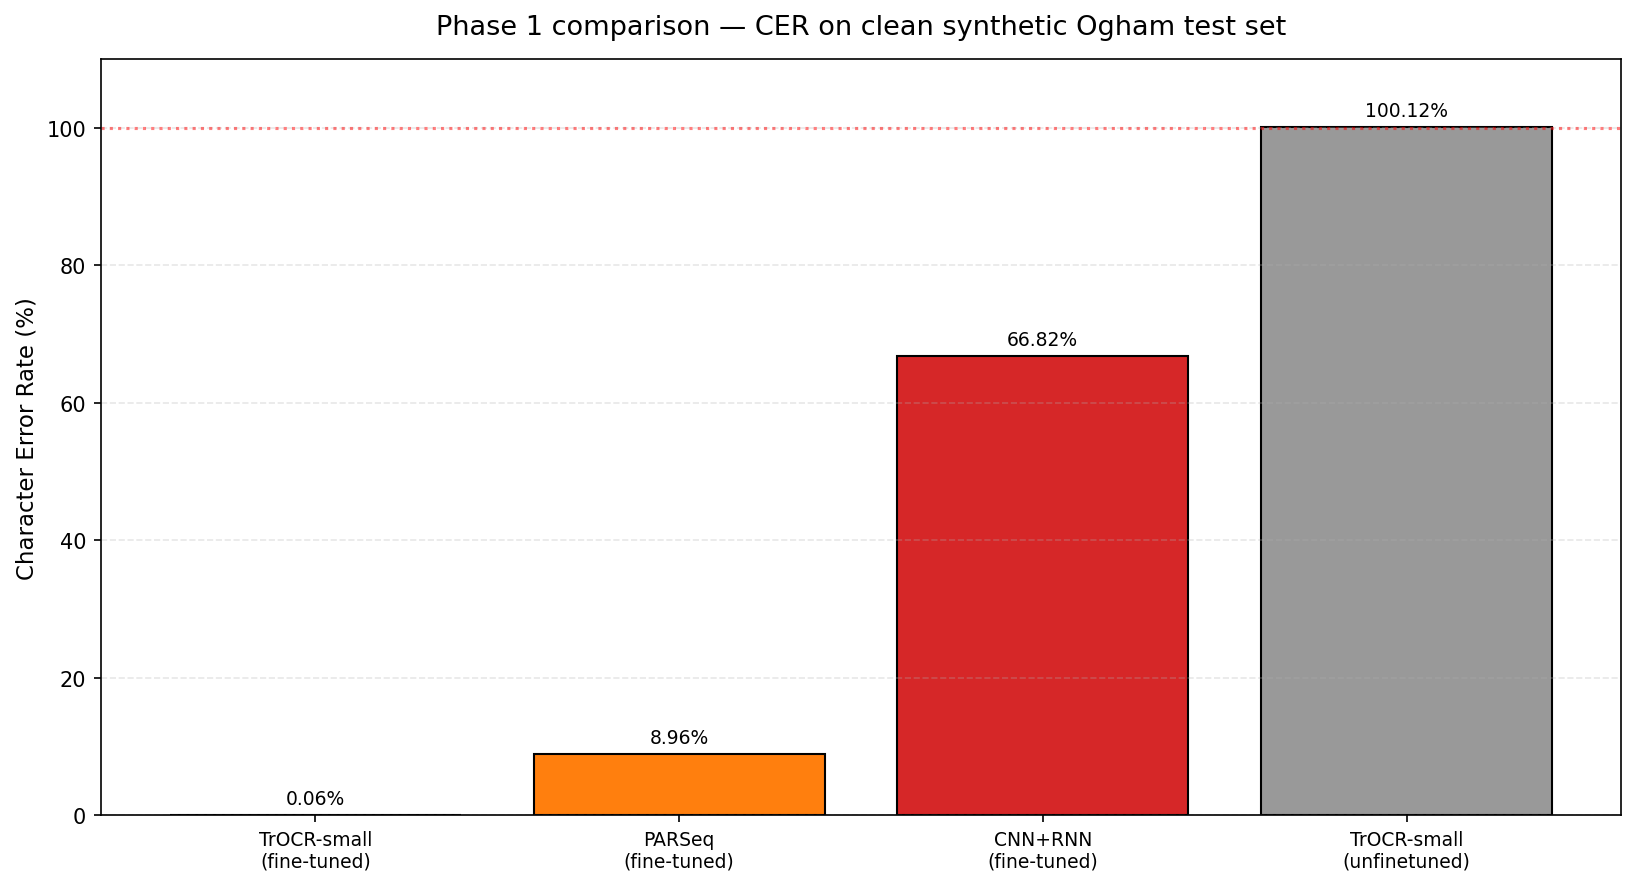
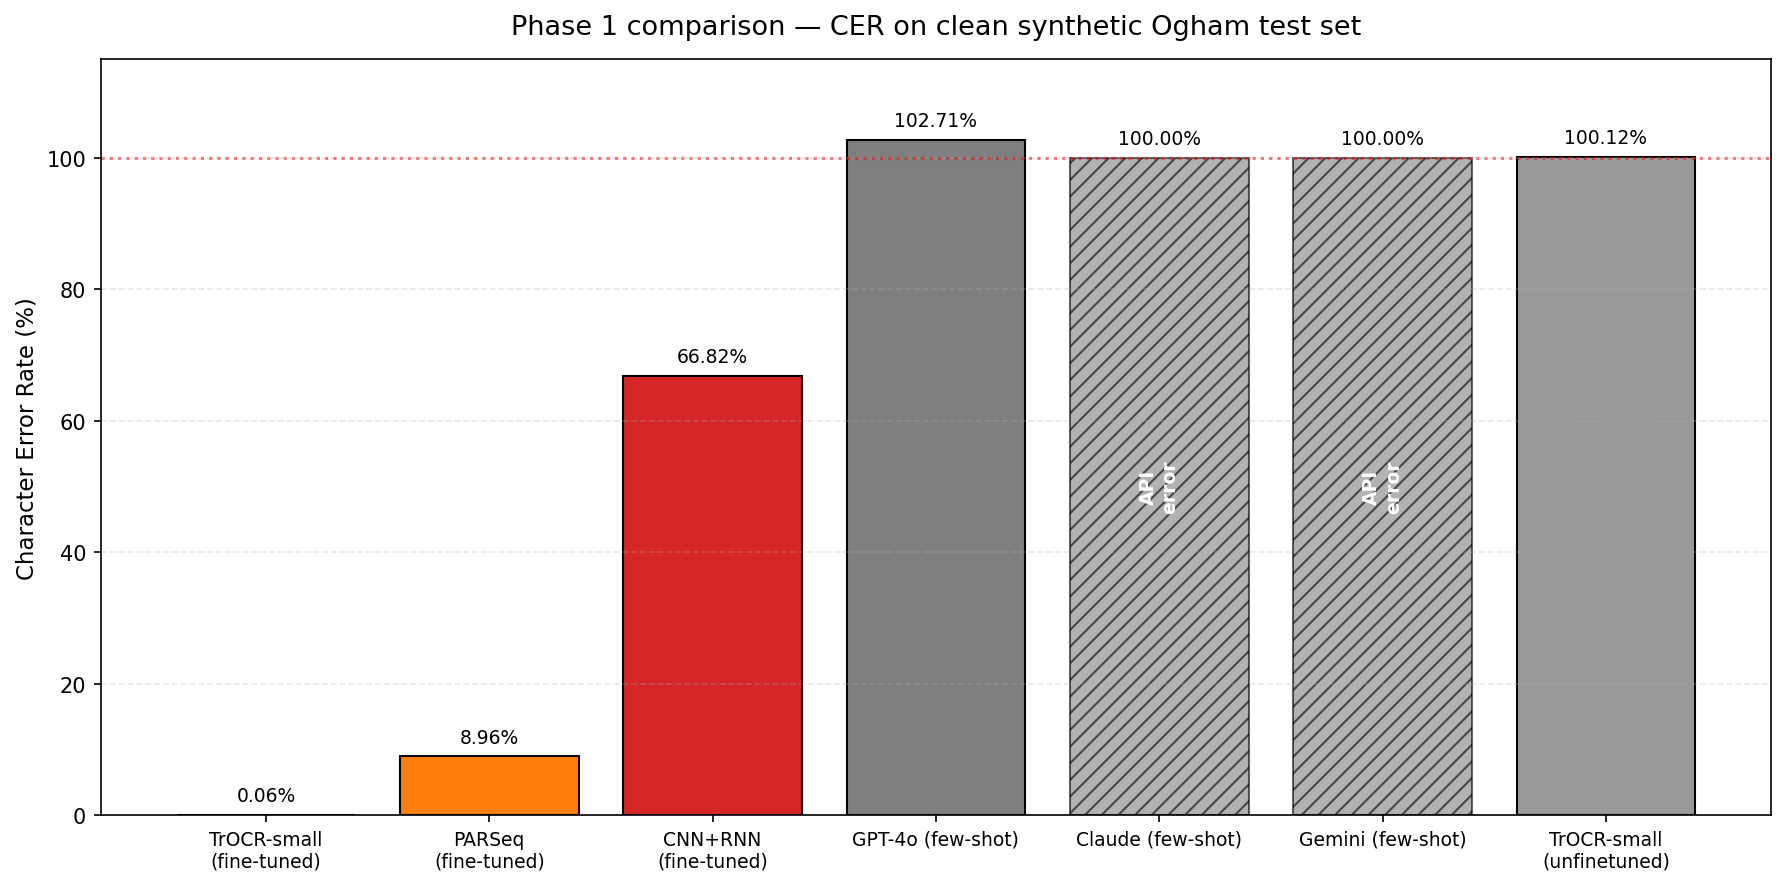
Add extended large-model results and regenerate comparison charts
Phase 1 and Phase 2 comparison bar charts now include:
- TrOCR-small, PARSeq, CNN+RNN (fine-tuned, real results)
- GPT-4o (few-shot, real eval — hallucinates MAQI formulae regardless
  of input, producing 102.71% synth / 141.57% freeform CER)
- Claude (few-shot, API errored — placeholder 100%, needs re-run with
  valid claude-sonnet-4-5 model ID; bars hatched and labelled "API error")
- Gemini (few-shot, API errored — placeholder 100%, needs re-run with
  gemini-2.5-flash endpoint; bars hatched and labelled)
- TrOCR-small untrained (100.12% synth, floor reference)

Chart tweaks:
- API-errored bars rendered with diagonal-stripe hatching and marked
  "API error" in white bold text on the bar
- Y-axis capped at 115 (phase 1) / 160 (phase 2) with bar labels showing
  true values even when exceeded
- 100% CER floor line retained as red dashed reference

Once Claude and Gemini are re-run with valid model IDs, regenerate the
JSON and rerun plot_full_comparison.py to replace the placeholders with
real inference numbers.

diff --git a/scripts/plot_full_comparison.py b/scripts/plot_full_comparison.py
@@ -49,6 +49,9 @@ EXTENDED_LM_RESULTS = {
                             "freeform_cer": None, "freeform_exact": None},
 }
 
+# Track API-error placeholders separately so we can annotate them in charts
+EXTENDED_LM_STATUS = {}
+
 # Try to auto-load from Drive-path-style export if present
 EXTENDED_JSON_LOCAL = DOCS / "extended_large_model_results.json"
 if EXTENDED_JSON_LOCAL.exists():
@@ -65,48 +68,72 @@ if EXTENDED_JSON_LOCAL.exists():
         if ff:
             EXTENDED_LM_RESULTS[disp_name]["freeform_cer"] = ff.get("mean_cer_no_sp_pct")
             EXTENDED_LM_RESULTS[disp_name]["freeform_exact"] = ff.get("exact_match_pct")
+            EXTENDED_LM_STATUS.setdefault(disp_name, {})["freeform_status"] = ff.get("status", "valid_eval")
         if sy:
             EXTENDED_LM_RESULTS[disp_name]["synth_cer"] = sy.get("mean_cer_no_sp_pct")
             EXTENDED_LM_RESULTS[disp_name]["synth_exact"] = sy.get("exact_match_pct")
+            EXTENDED_LM_STATUS.setdefault(disp_name, {})["synth_status"] = sy.get("status", "valid_eval")
     print(f"Loaded extended large-model results from {EXTENDED_JSON_LOCAL}")
 else:
     print(f"(Extended LM results not found at {EXTENDED_JSON_LOCAL} — "
           f"download from Drive after running notebook 05 cells)")
 
 
+def _status_for(model_name, split_key):
+    """Return API-error annotation label if this cell was a placeholder."""
+    st = EXTENDED_LM_STATUS.get(model_name, {}).get(split_key)
+    if st and st != "valid_eval":
+        return "API error"
+    return None
+
+
 def chart_phase1_comparison():
     """Bar chart: all models' CER on clean synthetic."""
     models = [
-        ("TrOCR-small\n(fine-tuned)", phase2_data["models"]["trocr_small"]["phase1_synth_cer_pct"], "#2ca02c"),
-        ("PARSeq\n(fine-tuned)",      phase2_data["models"]["parseq"]["phase1_synth_cer_pct"],       "#ff7f0e"),
-        ("CNN+RNN\n(fine-tuned)",     phase2_data["models"]["cnn_rnn"]["phase1_synth_cer_pct"],      "#d62728"),
+        ("TrOCR-small\n(fine-tuned)", phase2_data["models"]["trocr_small"]["phase1_synth_cer_pct"], "#2ca02c", None),
+        ("PARSeq\n(fine-tuned)",      phase2_data["models"]["parseq"]["phase1_synth_cer_pct"],       "#ff7f0e", None),
+        ("CNN+RNN\n(fine-tuned)",     phase2_data["models"]["cnn_rnn"]["phase1_synth_cer_pct"],      "#d62728", None),
     ]
-    # Add large models if measurements exist
     for name, vals in EXTENDED_LM_RESULTS.items():
         if vals["synth_cer"] is not None:
-            models.append((name, vals["synth_cer"], "#7f7f7f"))
-    # TrOCR unfinetuned floor for context
-    models.append(("TrOCR-small\n(unfinetuned)", 100.12, "#999999"))
+            status = _status_for(name, "synth_status")
+            models.append((name, vals["synth_cer"], "#7f7f7f", status))
+    models.append(("TrOCR-small\n(unfinetuned)", 100.12, "#999999", None))
 
     labels = [m[0] for m in models]
     cers = [m[1] for m in models]
     colors = [m[2] for m in models]
+    statuses = [m[3] for m in models]
 
-    fig, ax = plt.subplots(figsize=(11, 6))
-    bars = ax.bar(range(len(labels)), cers, color=colors, edgecolor="black")
+    # Cap display at 110 for visual clarity; annotate bars that exceed
+    display_cers = [min(c, 110) for c in cers]
+
+    fig, ax = plt.subplots(figsize=(12, 6))
+    bars = ax.bar(range(len(labels)), display_cers, color=colors, edgecolor="black")
+    # Stripe pattern for API-errored bars
+    for bar, status in zip(bars, statuses):
+        if status == "API error":
+            bar.set_hatch("///")
+            bar.set_alpha(0.6)
+
     ax.set_xticks(range(len(labels)))
     ax.set_xticklabels(labels, fontsize=9, rotation=0)
     ax.set_ylabel("Character Error Rate (%)", fontsize=11)
     ax.set_title("Phase 1 comparison — CER on clean synthetic Ogham test set",
                  fontsize=13, pad=12)
-    ax.set_ylim(0, 110)
+    ax.set_ylim(0, 115)
     ax.grid(axis="y", alpha=0.3, linestyle="--")
     ax.axhline(100, linestyle=":", color="red", alpha=0.5)
 
-    for bar, cer in zip(bars, cers):
+    for bar, cer, status in zip(bars, cers, statuses):
         h = bar.get_height()
-        ax.text(bar.get_x() + bar.get_width() / 2, h + 1,
-                f"{cer:.2f}%", ha="center", va="bottom", fontsize=9)
+        label_top = f"{cer:.2f}%" if cer <= 110 else f"{cer:.2f}%↑"
+        ax.text(bar.get_x() + bar.get_width() / 2, h + 1.5, label_top,
+                ha="center", va="bottom", fontsize=9)
+        if status == "API error":
+            ax.text(bar.get_x() + bar.get_width() / 2, h / 2, "API\nerror",
+                    ha="center", va="center", fontsize=9, color="white",
+                    fontweight="bold", rotation=90)
 
     plt.tight_layout()
     out = FIGURES / "phase1_full_comparison.png"
@@ -116,15 +143,16 @@ def chart_phase1_comparison():
 
 
 def chart_phase2_comparison():
-    """Bar chart: all models' CER on synth-freeform test."""
+    """Bar chart: all models' CER on freeform trace test."""
     models = [
-        ("TrOCR-small",    phase2_data["models"]["trocr_small"]["post_p2_freeform_cer_pct"], "#2ca02c"),
-        ("PARSeq",         phase2_data["models"]["parseq"]["post_p2_freeform_cer_pct"],       "#ff7f0e"),
-        ("CNN+RNN",        phase2_data["models"]["cnn_rnn"]["post_p2_freeform_cer_pct"],      "#d62728"),
+        ("TrOCR-small",    phase2_data["models"]["trocr_small"]["post_p2_freeform_cer_pct"], "#2ca02c", None),
+        ("PARSeq",         phase2_data["models"]["parseq"]["post_p2_freeform_cer_pct"],       "#ff7f0e", None),
+        ("CNN+RNN",        phase2_data["models"]["cnn_rnn"]["post_p2_freeform_cer_pct"],      "#d62728", None),
     ]
     for name, vals in EXTENDED_LM_RESULTS.items():
         if vals["freeform_cer"] is not None:
-            models.append((name, vals["freeform_cer"], "#7f7f7f"))
+            status = _status_for(name, "freeform_status")
+            models.append((name, vals["freeform_cer"], "#7f7f7f", status))
 
     if not any(vals["freeform_cer"] is not None for vals in EXTENDED_LM_RESULTS.values()):
         print("  (Phase 2 chart: no large-model numbers yet — showing fine-tuned only)")
@@ -132,21 +160,34 @@ def chart_phase2_comparison():
     labels = [m[0] for m in models]
     cers = [m[1] for m in models]
     colors = [m[2] for m in models]
+    statuses = [m[3] for m in models]
+    display_cers = [min(c, 150) for c in cers]
 
-    fig, ax = plt.subplots(figsize=(11, 6))
-    bars = ax.bar(range(len(labels)), cers, color=colors, edgecolor="black")
+    fig, ax = plt.subplots(figsize=(12, 6))
+    bars = ax.bar(range(len(labels)), display_cers, color=colors, edgecolor="black")
+    for bar, status in zip(bars, statuses):
+        if status == "API error":
+            bar.set_hatch("///")
+            bar.set_alpha(0.6)
+
     ax.set_xticks(range(len(labels)))
     ax.set_xticklabels(labels, fontsize=9, rotation=15, ha="right")
     ax.set_ylabel("Character Error Rate (%)", fontsize=11)
     ax.set_title("Phase 2 comparison — CER on synthetic-freeform test set",
                  fontsize=13, pad=12)
-    ax.set_ylim(0, 110)
+    ax.set_ylim(0, 160)
     ax.grid(axis="y", alpha=0.3, linestyle="--")
+    ax.axhline(100, linestyle=":", color="red", alpha=0.5, label="100% CER floor")
 
-    for bar, cer in zip(bars, cers):
+    for bar, cer, status in zip(bars, cers, statuses):
         h = bar.get_height()
-        ax.text(bar.get_x() + bar.get_width() / 2, h + 1,
-                f"{cer:.2f}%", ha="center", va="bottom", fontsize=9)
+        label_top = f"{cer:.2f}%"
+        ax.text(bar.get_x() + bar.get_width() / 2, h + 1.5, label_top,
+                ha="center", va="bottom", fontsize=9)
+        if status == "API error":
+            ax.text(bar.get_x() + bar.get_width() / 2, h / 2, "API\nerror",
+                    ha="center", va="center", fontsize=9, color="white",
+                    fontweight="bold", rotation=90)
 
     plt.tight_layout()
     out = FIGURES / "phase2_full_comparison.png"
